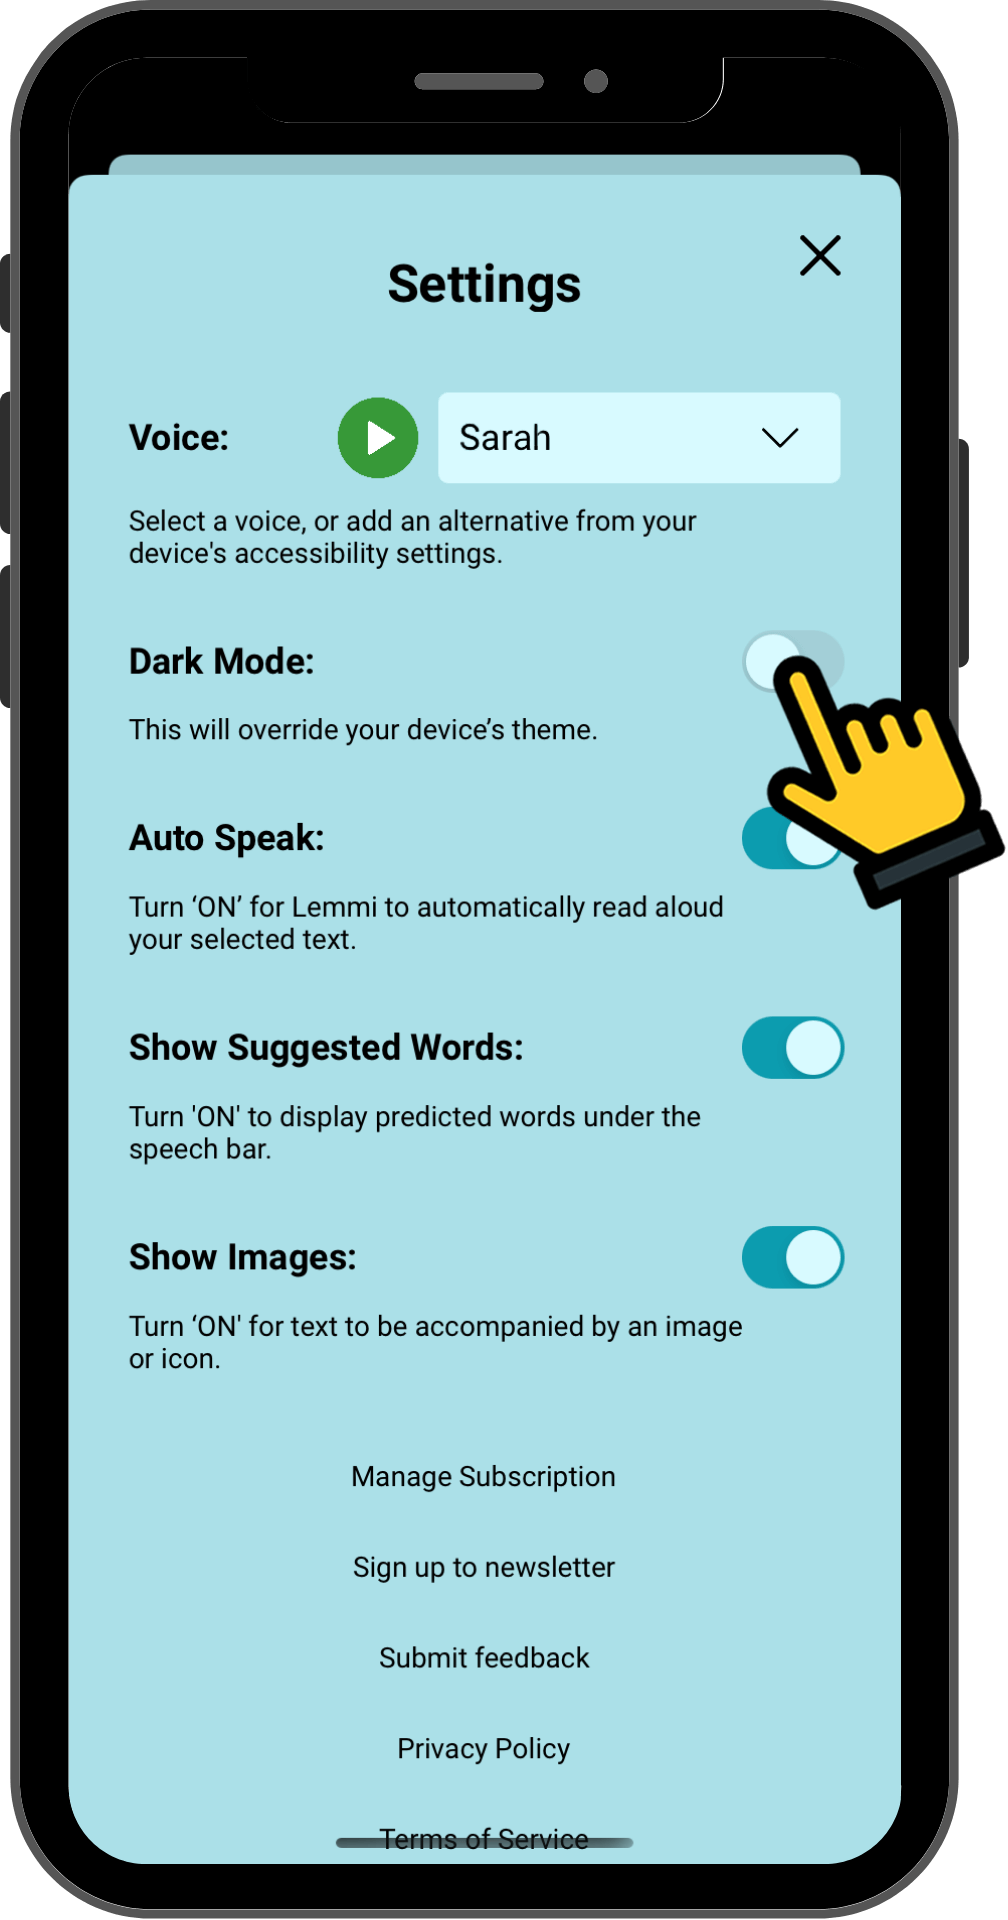
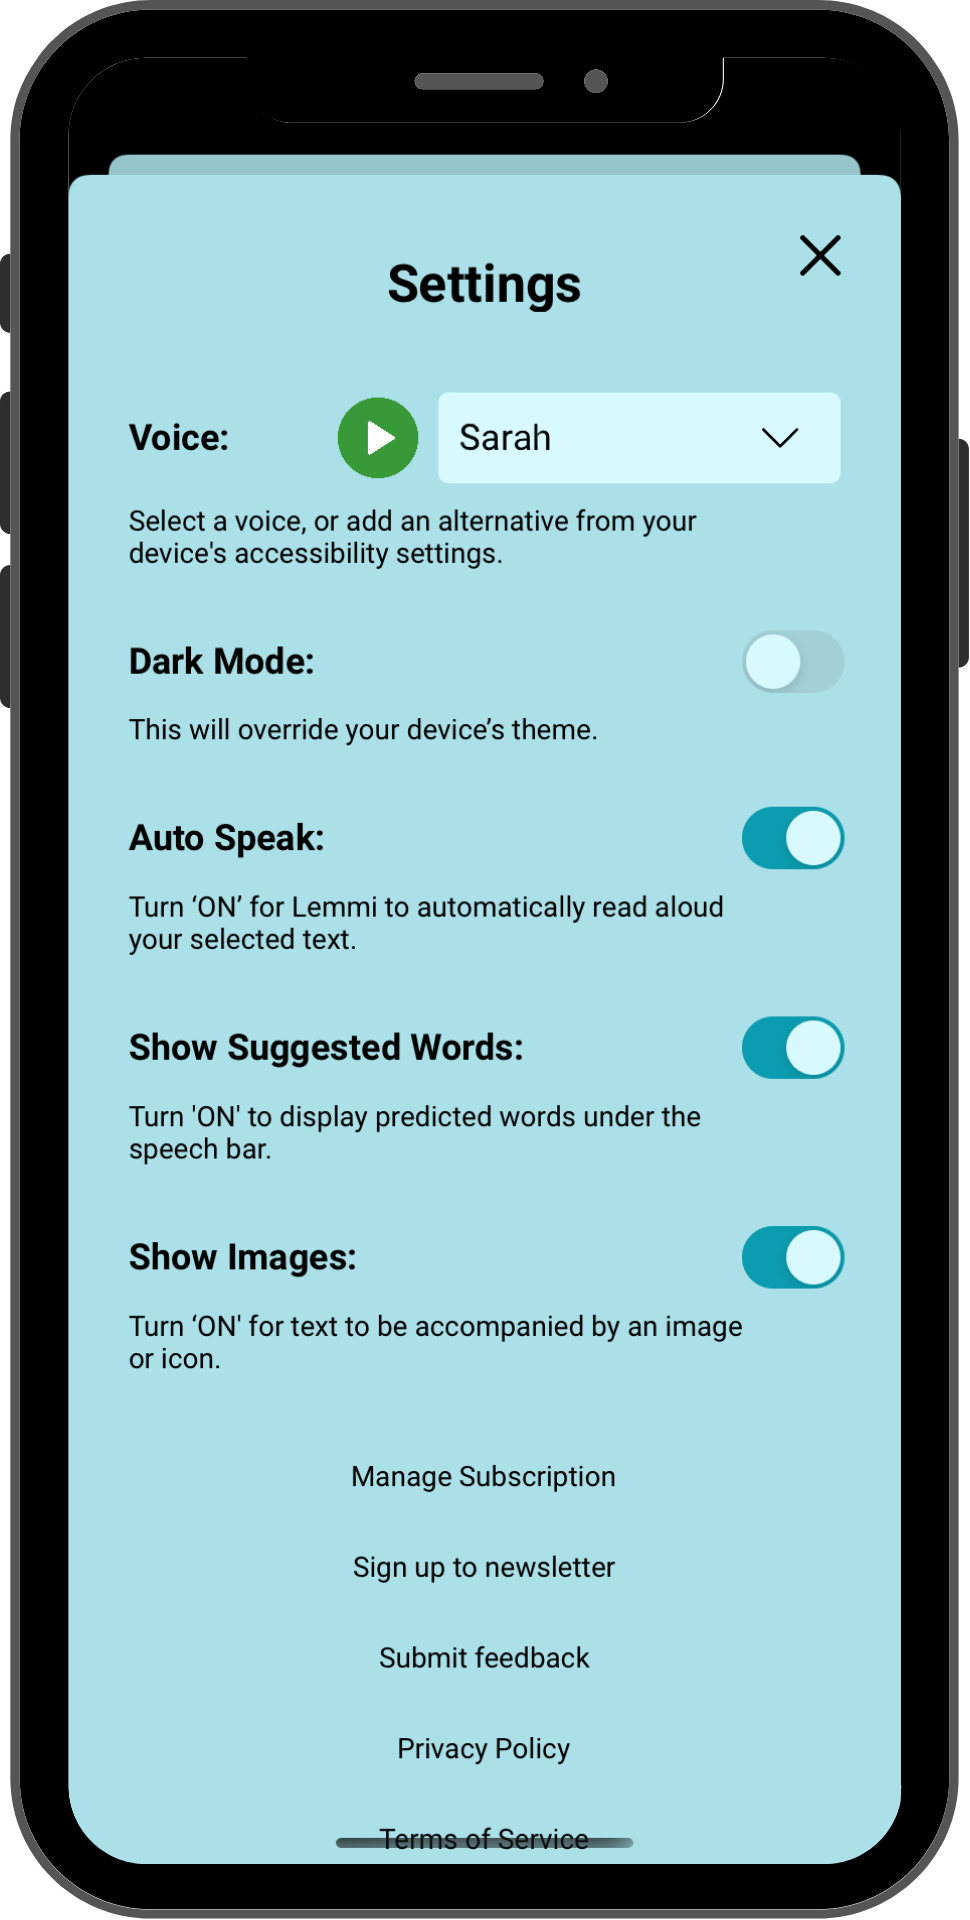
add hands and non-hands

diff --git a/src/strings.js b/src/strings.js
@@ -160,27 +160,27 @@ export const app = {
     {
       title: "Chat",
       description: "Users can type their own words or select from over 600+ words and phrases which the app will read aloud.",
-      image: "images/chat.png"
+      image: "images/chat-hand.png"
     },
     {
       title: "Personalise",
       description: "Add unlimited custom words, sentences, and photos. The ability to add familiar faces and phrases can help provide visual prompts and bring the app to life.",
-      image: "images/personalise.png"
+      image: "images/personalise-hand.png"
     },
     {
       title: "Save time",
       description: "Suggested word prompts are shown under the speech bar. These are automated phrases, or words that have been previously used in succession, and are a great way to keep the conversation flowing.",
-      image: "images/save-time.png"
+      image: "images/save-time-hand.png"
     },
     {
       title: "Simple to use",
       description: "The app has a user friendly design (including a clear menu, easy navigation, and simple graphics) making it suitable for all ages and abilities.",
-      image: "images/simple-to-use.png"
+      image: "images/simple-to-use-hand.png"
     },
     {
       title: "Customise",
       description: "The app can be adapted to suit individual needs by changing the setting options (e.g. tone of voice, colour theme, and more).",
-      image: "images/customise.png"
+      image: "images/customise-hand.png"
     },
   ]
 }
